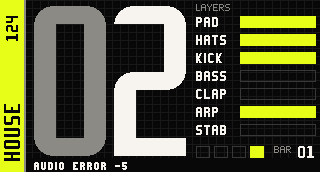
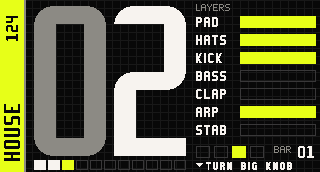
Use current app screen as cover

Changed region(s): [[0.0938, 0.843, 0.9375, 0.9884]]

diff --git a/社区发布文案.md b/社区发布文案.md
@@ -2,7 +2,7 @@
 
 - 栏目：Creator Lab / 应用
 - 分类：Other（如表单显示）
-- 封面：`source/images/cover.png`（960 × 480）
+- 封面：`source/images/cover.png`（320 × 172）
 - 简介：Resona Box 完整设备应用，包含 Hype Dial 界面和配套 Hype Engine。用双编码器切换六种曲风、加减伴奏层，随手做 STUTTER 或 BUILD → DROP。
 - 更新说明：Hype Dial 0.4.9 搭配 Hype Engine 0.3.12。底鼓起音加入渐入并留出余量，STUTTER、ROLL 和 SCRATCH 等所需片段录满后再启动。
 - 项目说明：`source/README.md`
